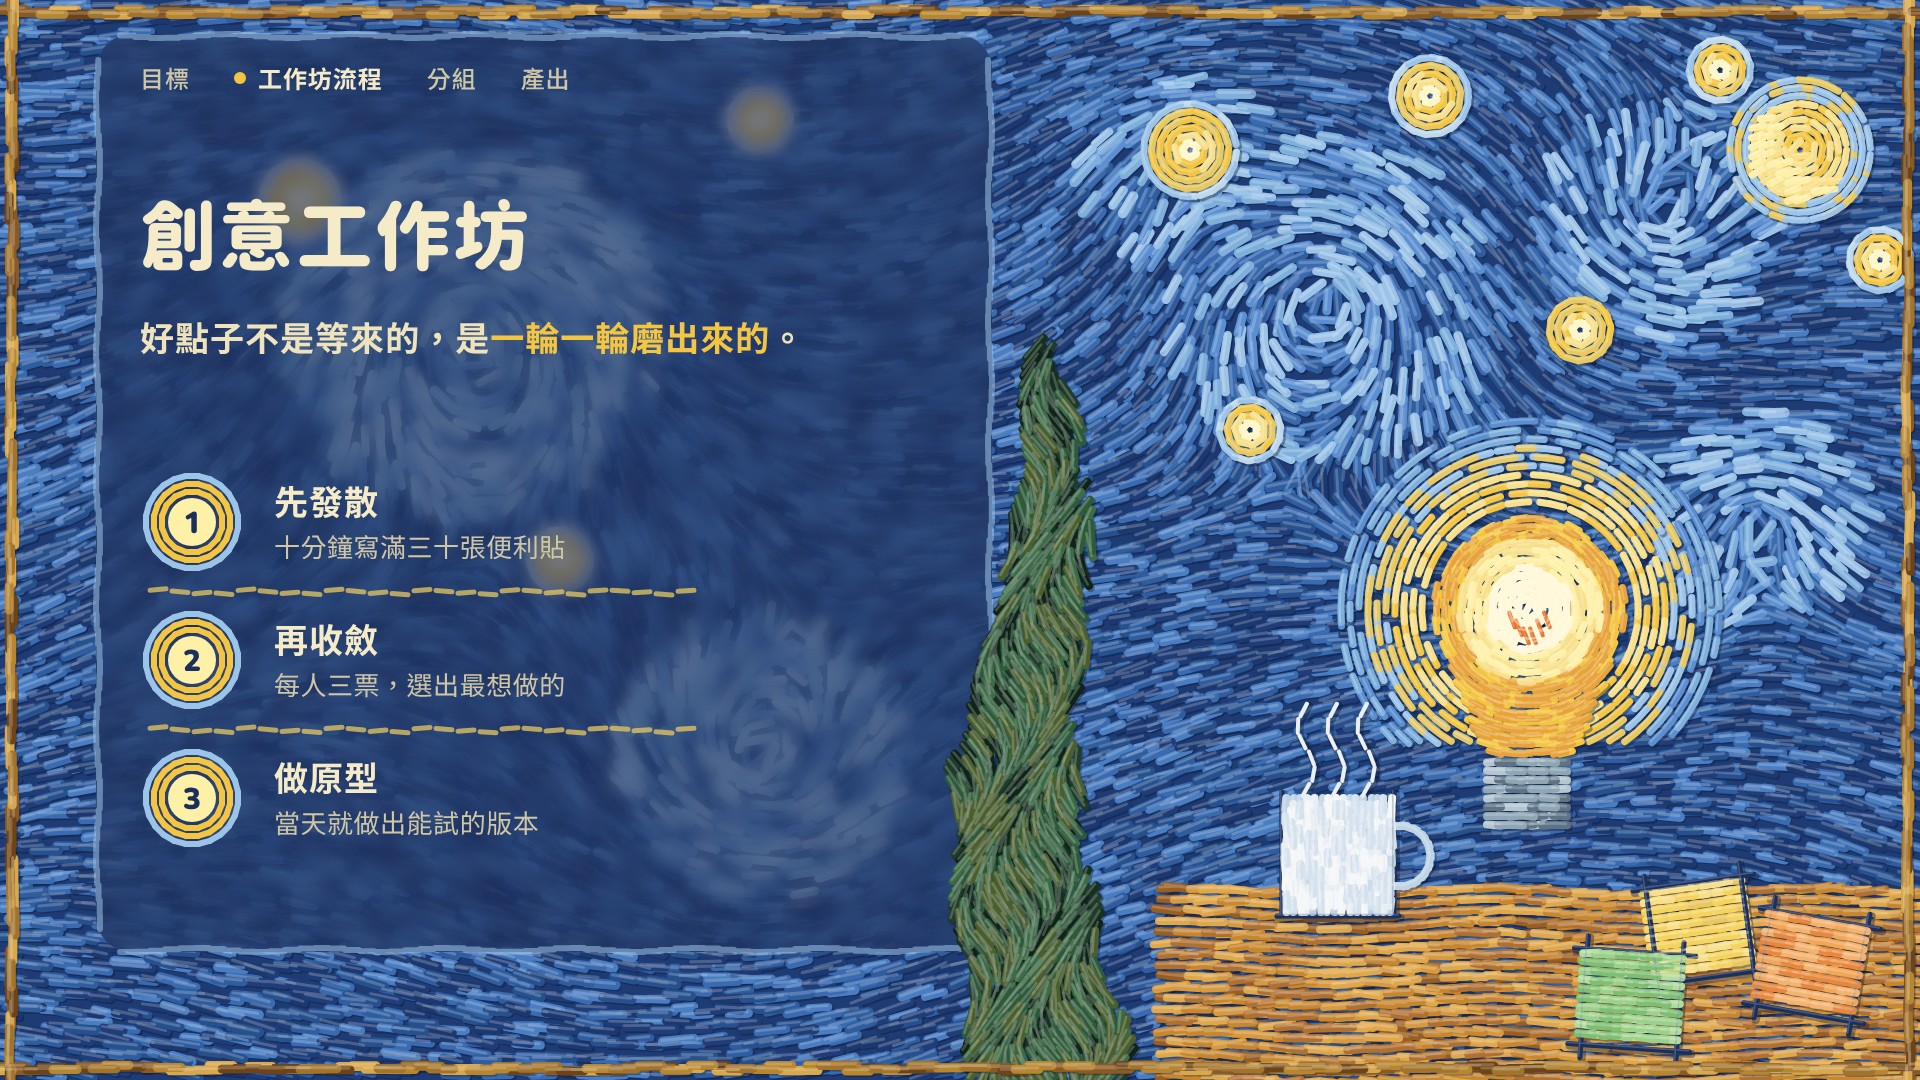
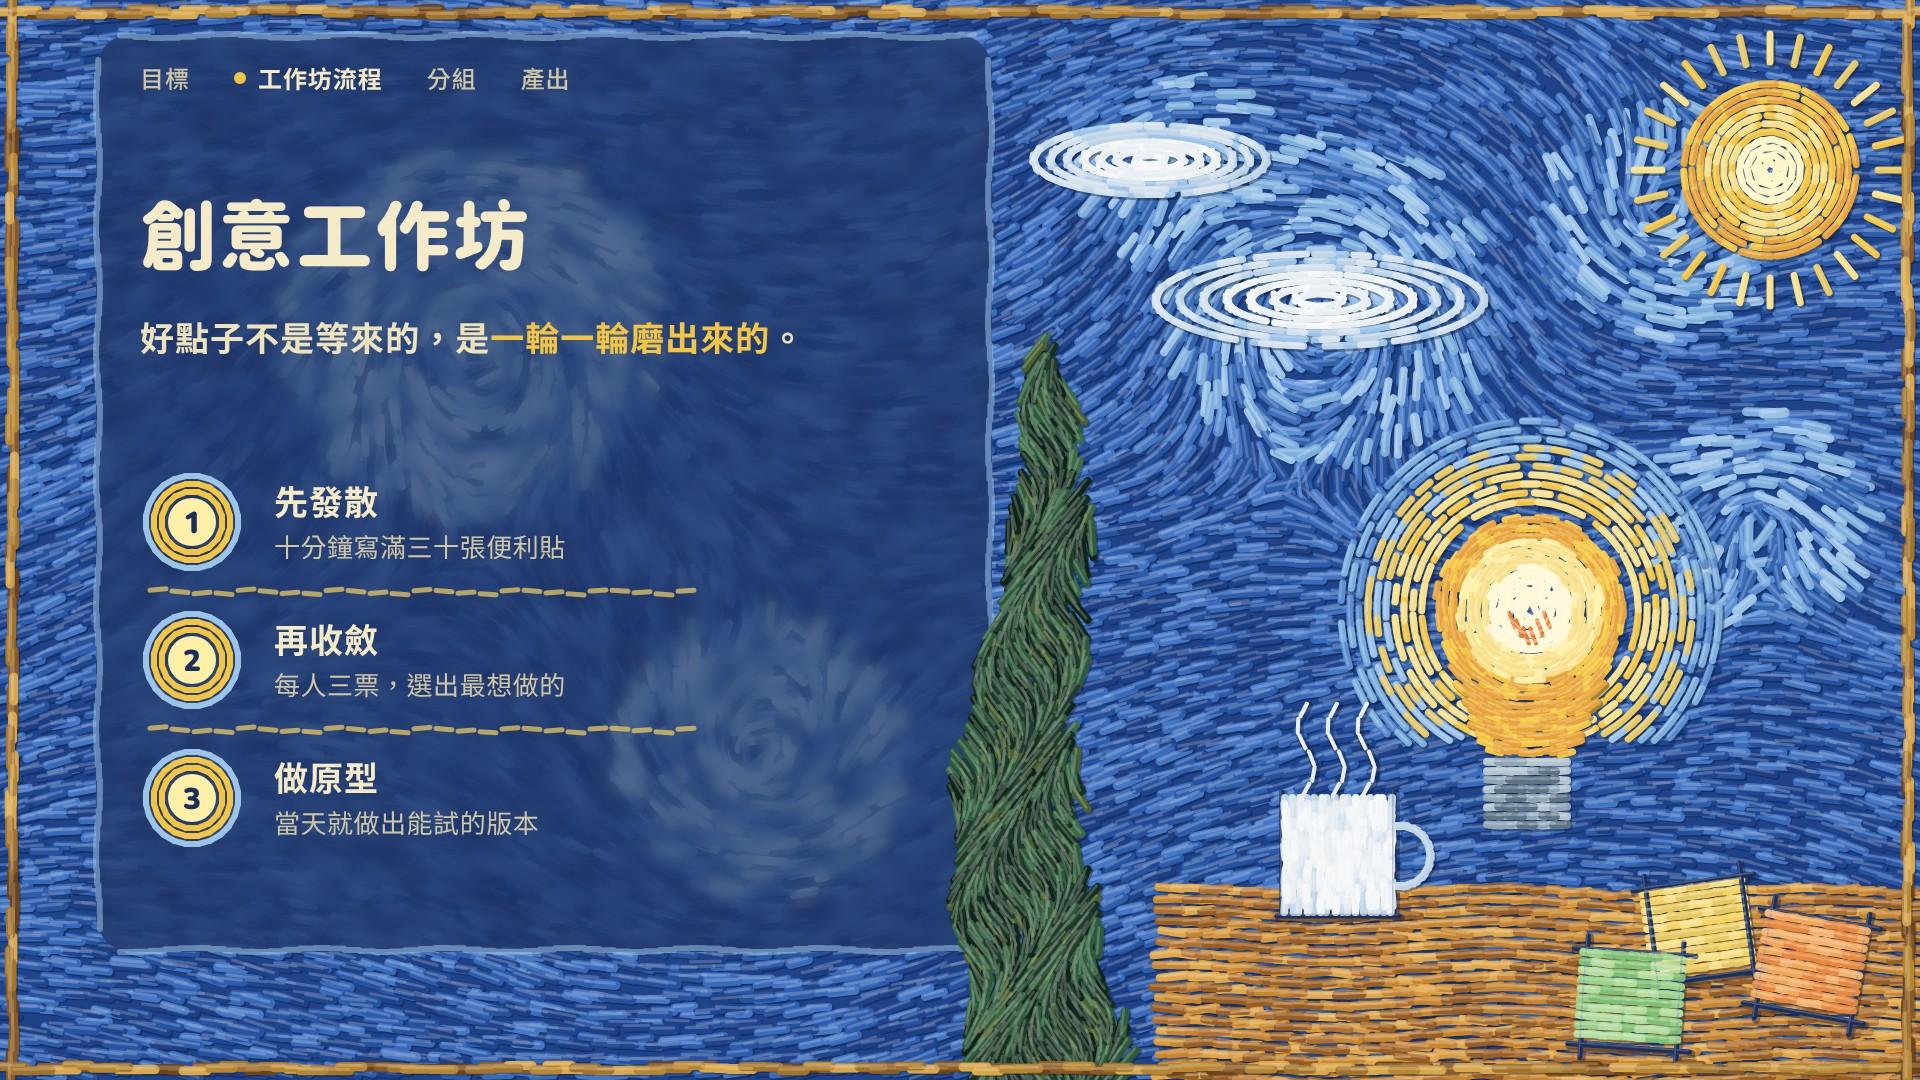
補明暗：梵谷筆觸兩種明暗都改成白天（依使用者建議）
- src/vangogh-B.html（深色）：拿掉九顆漩渦星星與月亮；天空改成梵谷常畫的白天深鈷藍，加一顆漩渦太陽與兩朵拉長的白雲（圓的會像月亮）
- src/vangogh-B-light.html（淺色，新）：晴天的淺藍漩渦天空、白雲、太陽，畫面下方是麥田；釉改淺色，字改深色，關鍵字改朱橘；桌子木色加深，不和麥田混在一起
- 工作坊在白天，太陽合乎「時間記號跟著內容走」
- render.cjs 檢查通過：深色 4.14，淺色 5.03

Claude-Session: https://claude.ai/code/session_01Cd6Gfpjt229CKA35KBVkkD

diff --git a/projects/presentation-skill/outputs/illustration-integration/src/vangogh-B-light.html b/projects/presentation-skill/outputs/illustration-integration/src/vangogh-B-light.html
@@ -1,0 +1,140 @@
+<!doctype html>
+<html lang="zh-Hant">
+<head>
+<meta charset="utf-8">
+<title>梵谷筆觸淺色版（B）｜創意工作坊：晴天的淺藍漩渦天空與麥田，字寫在淺色薄釉上</title>
+<link rel="stylesheet" href="https://fonts.googleapis.com/css2?family=Chiron+GoRound+TC:wght@500;700;900&family=Noto+Sans+TC:wght@400;500;700&display=block">
+<link rel="stylesheet" href="../../illustration-renderings/src/base.css">
+<style>
+  :root{--bg:#E9E6DC;--ink:#1E2638;--ink2:#2B3448;--sub:#4A5266;--accent:#A63F16}
+  .bn{font:900 30px/1 "Chiron GoRound TC";fill:#1A2F5E}
+</style>
+</head>
+<body>
+<div class="slide">
+  <svg class="scene" id="scene" width="1920" height="1080" viewBox="0 0 1920 1080" aria-hidden="true"></svg>
+  <nav aria-label="章節"><span>目標</span><b>工作坊流程</b><span>分組</span><span>產出</span></nav>
+  <div class="copy">
+    <h2>創意工作坊</h2>
+    <p class="key">好點子不是等來的，是<em>一輪一輪磨出來的</em>。</p>
+  </div>
+  <ul class="items">
+    <li><svg class="badge" viewBox="0 0 104 104" data-n="1" aria-hidden="true"></svg><div><strong>先發散</strong><span>十分鐘寫滿三十張便利貼</span></div></li>
+    <li><svg class="badge" viewBox="0 0 104 104" data-n="2" aria-hidden="true"></svg><div><strong>再收斂</strong><span>每人三票，選出最想做的</span></div></li>
+    <li><svg class="badge" viewBox="0 0 104 104" data-n="3" aria-hidden="true"></svg><div><strong>做原型</strong><span>當天就做出能試的版本</span></div></li>
+  </ul>
+</div>
+<script>
+let seed = 3;
+// the light version: a clear day, white clouds, a wheat field low across the canvas
+const CLOUD_PAL = [['#FFFFFF', '#F7F9FB'], ['#E4EEF6', '#D5E6F3', '#C6DDF1']];
+const rand = () => { seed = (seed + 0x6D2B79F5) | 0; let t = Math.imul(seed ^ seed >>> 15, 1 | seed); t ^= t + Math.imul(t ^ t >>> 7, 61 | t); return ((t ^ t >>> 14) >>> 0) / 4294967296; };
+const pick = a => a[Math.floor(rand() * a.length)];
+// strokes are batched per layer and colour; each batch gets a shadow and a highlight
+const layers = [];
+let L = -1;
+const layer = () => { layers.push({}); L++; };
+function st(x, y, a, len, col, w) {
+  const dx = Math.cos(a) * len / 2, dy = Math.sin(a) * len / 2, k = col + '|' + w;
+  (layers[L][k] ||= []).push(`M${(x - dx).toFixed(1)} ${(y - dy).toFixed(1)}L${(x + dx).toFixed(1)} ${(y + dy).toFixed(1)}`);
+}
+const lighten = (hex, t) => '#' + [1, 3, 5].map(i => Math.round(parseInt(hex.slice(i, i + 2), 16) * (1 - t) + 255 * t).toString(16).padStart(2, '0')).join('');
+
+// the sky: a flow field with a few vortices, calm over the text
+const vort = [[1330, 300, 1, 150], [1660, 220, -.85, 110], [1180, 170, .55, 90], [1760, 520, .6, 100], [470, 330, .9, 170], [760, 760, -.7, 130]];
+const smooth = (a, b, x) => { const t = Math.min(1, Math.max(0, (x - a) / (b - a))); return t * t * (3 - 2 * t); };
+function flow(x, y) {
+  const k = 1;
+  let vx = 1, vy = .18 * Math.sin(x * .004 + y * .007);
+  for (const [cx, cy, s, r] of vort) { const dx = x - cx, dy = y - cy, d = Math.sqrt(dx * dx + dy * dy) + 1, f = k * s * r * r * 2.4 / (d * d + r * r); vx += -dy / d * f; vy += dx / d * f; }
+  return Math.atan2(vy, vx);
+}
+layer();
+for (let y = 6; y < 1080; y += 15) for (let x = 6; x < 1920; x += 15) {
+  const px = x + (rand() - .5) * 10, py = y + (rand() - .5) * 10, calm = false;
+  let col;
+  if (calm) col = pick(['#1C3870', '#1F3D78', '#22417C', '#1A3366', '#24467F']);
+  else {
+    const near = vort.some(([cx, cy, , r]) => Math.hypot(px - cx, py - cy) < r * 1.1);
+    col = near ? pick(['#D5E6F3', '#E9F1F8', '#BFD8EE', '#F4F6F8', '#A9CBEA']) : pick(['#8FB8E0', '#A3C6E8', '#B6D3EE', '#7FAAD6', '#C6DDF1', '#94BCE3']);
+  }
+  // below the horizon the strokes stand up and turn to wheat
+  const wheat = py > 840 + 30 * Math.sin(px * .006);
+  if (wheat) { st(px, py, -Math.PI / 2 + .35 * Math.sin(px * .03 + py * .02) + (rand() - .5) * .3, 18 + rand() * 12, pick(['#E0B04A', '#D19A36', '#EBC66A', '#C68A2E', '#F0D27A']), 8 + Math.round(rand() * 2)); continue; }
+  st(px, py, flow(px, py) + (rand() - .5) * .25, 18 + rand() * 14, col, calm ? 7 : 8 + Math.round(rand() * 2));
+}
+// daytime, as the workshop is: no stars or moon; white clouds turn in two of the vortices and one sun burns where the moon was
+layer();
+const ring = (cx, cy, R, pal) => { for (let r = 6; r <= R; r += 8) { const n = Math.max(5, Math.round(2 * Math.PI * r / 13)); for (let k = 0; k < n; k++) { const t = k / n * Math.PI * 2 + rand() * .2; st(cx + Math.cos(t) * r, cy + Math.sin(t) * r, t + Math.PI / 2, 14, pal(r / R), 7); } } };
+const CLOUD = typeof CLOUD_PAL !== 'undefined' ? CLOUD_PAL : [['#E9EEF2', '#F4F6F8'], ['#BFD3E6', '#D5E2EE', '#9CC3E8']];
+// clouds are long, as in his daytime fields: strokes laid along flattened ellipses, not round like a moon
+const cloud = (cx, cy, Rx, Ry) => { for (let f = .12; f <= 1; f += .14) { const n = Math.max(6, Math.round(2 * Math.PI * Rx * f / 15)); for (let k = 0; k < n; k++) { const t = k / n * Math.PI * 2 + rand() * .15, x = cx + Math.cos(t) * Rx * f, y = cy + Math.sin(t) * Ry * f; st(x, y, Math.atan2(Math.cos(t) * Ry, -Math.sin(t) * Rx), 15, f < .6 ? pick(CLOUD[0]) : pick(CLOUD[1]), 7); } } };
+cloud(1320, 300, 170, 48); cloud(1150, 160, 120, 36);
+ring(1770, 170, 92, f => f < .35 ? '#FFF6C8' : f < .7 ? pick(['#F8E08A', '#F4C542']) : pick(['#F4C542', '#E8A33A']));
+for (let k = 0; k < 28; k++) { const t = k / 28 * Math.PI * 2; st(1770 + Math.cos(t) * 122, 170 + Math.sin(t) * 122, t, 28, pick(['#F4C542', '#E8C860', '#F8E08A']), 7); }
+// cypress, like a dark flame
+layer();
+for (let y = 330; y < 1090; y += 9) {
+  const w = 74 * Math.pow((y - 330) / 750, .6) + 6 * Math.sin(y * .05), c = 1036 + 18 * Math.sin((y - 330) * .01);
+  for (let x = c - w; x < c + w; x += 10) st(x + (rand() - .5) * 6, y, -Math.PI / 2 + .7 * Math.sin(y * .03 + x * .04), 20 + rand() * 10, pick(['#1F3B2A', '#2E5A3A', '#16301F', '#3D6B45', '#0F2418', '#4A5E2E']), 8);
+}
+// the table and today's tools
+layer();
+for (let y = 892; y < 1090; y += 11) for (let x = 1170; x < 1930; x += 15) st(x + (rand() - .5) * 8, y + 4 * Math.sin(x * .02), (rand() - .5) * .3, 22 + rand() * 10, pick(['#A0622A', '#8A5220', '#B8732F', '#7A4818', '#C07A36']), 8);
+// a lightbulb that glows
+for (let r = 108; r <= 196; r += 9) { const n = Math.round(2 * Math.PI * r / 14); for (let k = 0; k < n; k++) { const t = k / n * Math.PI * 2 + rand() * .2, x = 1530 + Math.cos(t) * r, y = 610 + Math.sin(t) * r; if (y < 740) st(x, y, t + Math.PI / 2, 15, r < 140 ? pick(['#F8E08A', '#F4C542']) : r < 170 ? pick(['#E8C860', '#9CC3E8']) : pick(['#7FB0DD', '#5C8FD1']), 7); } }
+layer();
+for (let y = 520; y < 760; y += 8) for (let x = 1430; x < 1630; x += 8) {
+  const dx = x - 1530, dy = y - 610, inBall = Math.hypot(dx, dy) < 94, inNeck = y > 660 && y < 756 && Math.abs(dx) < 40 + (756 - y) * .45;
+  if (inBall || inNeck) { const d = Math.hypot(dx, dy) / 94; st(x + (rand() - .5) * 4, y + (rand() - .5) * 4, Math.atan2(dy, dx) + Math.PI / 2, 13, d < .45 ? '#FFF8D8' : d < .75 ? pick(['#FFF0A8', '#F8E08A']) : pick(['#F4C542', '#E8A33A']), 7); }
+}
+for (let y = 762; y < 830; y += 9) for (let x = 1494; x < 1568; x += 11) st(x, y, (rand() - .5) * .2, 14, pick(['#8FA6B4', '#5E7486', '#B5C6D0']), 8);
+for (let k = 0; k < 6; k++) st(1512 + k * 7, 640 - Math.abs(k - 2.5) * 8, 1.2, 16, '#E8742E', 4);
+// sticky notes and a cup
+const note = (cx, cy, rot, cols) => { const a = rot * Math.PI / 180; for (let v = -44; v <= 44; v += 9) for (let u = -44; u <= 44; u += 12) st(cx + u * Math.cos(a) - v * Math.sin(a), cy + u * Math.sin(a) + v * Math.cos(a), a + (rand() - .5) * .2, 16, pick(cols), 8); for (const [u0, v0, u1, v1] of [[-48, -48, 48, -48], [48, -48, 48, 48], [48, 48, -48, 48], [-48, 48, -48, -48]]) for (let t = 0; t <= 1; t += .25) { const u = u0 + (u1 - u0) * t, v = v0 + (v1 - v0) * t; st(cx + u * Math.cos(a) - v * Math.sin(a), cy + u * Math.sin(a) + v * Math.cos(a), a + (u0 === u1 ? Math.PI / 2 : 0), 26, '#1A2F5E', 5); } };
+note(1700, 930, -8, ['#F4D35E', '#F8E08A', '#E8C860']); note(1812, 966, 10, ['#F2A65A', '#E8873E', '#F4B370']); note(1632, 1000, 4, ['#9BD18B', '#7FBF73', '#B4DDA0']);
+for (let y = 804; y < 912; y += 6) for (let x = 1286; x < 1392; x += 7) st(x + (rand() - .5) * 3, y, Math.PI / 2 + (rand() - .5) * .25, 12, pick(['#E9EEF2', '#BFD3E6', '#D5E2EE', '#F4F6F8']), 8);
+for (let y = 800; y <= 914; y += 12) { st(1282, y, Math.PI / 2, 16, '#1A2F5E', 5); st(1394, y, Math.PI / 2, 16, '#1A2F5E', 5); }
+for (let x = 1286; x <= 1390; x += 13) st(x, 916, 0, 18, '#1A2F5E', 5);
+for (let k = 0; k < 10; k++) { const t = -Math.PI / 2 + k / 9 * Math.PI; st(1400 + Math.cos(t) * 30, 856 + Math.sin(t) * 30, t + Math.PI / 2, 14, '#BFD3E6', 8); }
+for (let k = 0; k < 3; k++) for (let j = 0; j < 6; j++) st(1306 + k * 30 + 8 * Math.sin(j * 1.2), 790 - j * 16, Math.PI / 2 + .5 * Math.cos(j * 1.2), 14, '#E9EEF2', 4);
+// signature frame: a border of thick strokes
+layer();
+const fr = ['#8A5A22', '#B8862F', '#D9A84A', '#6E4416', '#A4732A'];
+for (let x = 0; x < 1930; x += 13) { st(x, 9 + rand() * 6, 0, 24, pick(fr), 9); st(x, 1071 - rand() * 6, 0, 24, pick(fr), 9); }
+for (let y = 0; y < 1090; y += 13) { st(9 + rand() * 6, y, Math.PI / 2, 24, pick(fr), 9); st(1911 - rand() * 6, y, Math.PI / 2, 24, pick(fr), 9); }
+
+const draw = Ly => {
+  let o = '';
+  const keys = Object.keys(Ly);
+  o += `<path d="${keys.map(k => Ly[k].join('')).join('')}" stroke="#2A3A5A" stroke-opacity=".2" stroke-width="8" stroke-linecap="round" fill="none" transform="translate(1.8 2)"/>`;
+  keys.forEach(k => { const [col, w] = k.split('|'); o += `<path d="${Ly[k].join('')}" stroke="${col}" stroke-width="${w}" stroke-linecap="round" fill="none"/>`; });
+  keys.forEach(k => { const [col, w] = k.split('|'); o += `<path d="${Ly[k].join('')}" stroke="${lighten(col, .45)}" stroke-opacity=".45" stroke-width="${(w * .32).toFixed(1)}" stroke-linecap="round" fill="none" transform="translate(-1.2 -1.4)"/>`; });
+  return o;
+};
+let out = '<defs><filter id="frost" filterUnits="userSpaceOnUse" x="0" y="0" width="1920" height="1080"><feGaussianBlur stdDeviation="7"/></filter>'
+  + '<clipPath id="glaze"><rect x="96" y="34" width="896" height="918" rx="36"/></clipPath></defs>';
+out += '<rect width="1920" height="1080" fill="#A9CBEA"/><g id="paint">' + draw(layers[0]) + draw(layers[1]) + '</g>';
+// the glaze: the same sky, softened and lightened, with painted edges
+out += '<g clip-path="url(#glaze)"><use href="#paint" filter="url(#frost)"/><rect x="96" y="34" width="896" height="918" fill="#F4F0E6" opacity=".76"/></g>';
+let edge = '';
+for (let x = 120; x < 972; x += 15) edge += `M${x} ${36 + Math.sin(x * .05) * 2}l14 0 M${x} ${950 + Math.cos(x * .05) * 2}l14 0 `;
+for (let y = 60; y < 930; y += 15) edge += `M${98 + Math.sin(y * .05) * 2} ${y}l0 14 M${990 + Math.cos(y * .05) * 2} ${y}l0 14 `;
+out += `<path d="${edge}" stroke="#5C8FD1" stroke-opacity=".6" stroke-width="6" stroke-linecap="round" fill="none"/>`;
+// painted strokes between the items: the dividers are brushwork too
+let div = '';
+[592, 730].forEach(y => { for (let x = 150; x < 700; x += 22) div += `M${x} ${y + Math.sin(x * .07) * 2}l16 ${(Math.sin(x) * 2).toFixed(1)} `; });
+out += `<path d="${div}" stroke="#3A6BB0" stroke-opacity=".6" stroke-width="5" stroke-linecap="round" fill="none"/>`;
+layers.slice(2).forEach(Ly => out += draw(Ly));
+document.getElementById('scene').innerHTML = out;
+
+// list badges: a small sun, painted
+document.querySelectorAll('svg.badge').forEach(el => {
+  let s = '';
+  for (let r = 30; r <= 48; r += 8) { const n = Math.round(2 * Math.PI * r / 12); for (let k = 0; k < n; k++) { const t = k / n * Math.PI * 2, x = 52 + Math.cos(t) * r, y = 52 + Math.sin(t) * r, a = t + Math.PI / 2; s += `<path d="M${(x - Math.cos(a) * 6).toFixed(1)} ${(y - Math.sin(a) * 6).toFixed(1)}L${(x + Math.cos(a) * 6).toFixed(1)} ${(y + Math.sin(a) * 6).toFixed(1)}" stroke="${r < 40 ? '#F4C542' : '#9CC3E8'}" stroke-width="6" stroke-linecap="round"/>`; } }
+  s += `<circle cx="52" cy="52" r="24" fill="#FFF0A8"/><text class="bn" x="52" y="63" text-anchor="middle">${el.dataset.n}</text>`;
+  el.innerHTML = s;
+});
+</script>
+</body>
+</html>

diff --git a/projects/presentation-skill/outputs/illustration-integration/src/vangogh-B.html b/projects/presentation-skill/outputs/illustration-integration/src/vangogh-B.html
@@ -2,11 +2,11 @@
 <html lang="zh-Hant">
 <head>
 <meta charset="utf-8">
-<title>梵谷筆觸融合版（B）｜創意工作坊：字寫在畫上的一層薄釉</title>
+<title>梵谷筆觸深色版（B）｜創意工作坊：深鈷藍的白天天空，字寫在一層薄釉上</title>
 <link rel="stylesheet" href="https://fonts.googleapis.com/css2?family=Chiron+GoRound+TC:wght@500;700;900&family=Noto+Sans+TC:wght@400;500;700&display=block">
 <link rel="stylesheet" href="../../illustration-renderings/src/base.css">
 <style>
-  :root{--bg:#1F3B73;--ink:#F6EBC8;--ink2:#EFE3BD;--sub:#CFC6A6;--accent:#F4C542}
+  :root{--bg:#1F4288;--ink:#F6EBC8;--ink2:#EFE3BD;--sub:#CFC6A6;--accent:#F4C542}
   .bn{font:900 30px/1 "Chiron GoRound TC";fill:#1A2F5E}
 </style>
 </head>
@@ -47,7 +47,6 @@ function flow(x, y) {
   for (const [cx, cy, s, r] of vort) { const dx = x - cx, dy = y - cy, d = Math.sqrt(dx * dx + dy * dy) + 1, f = k * s * r * r * 2.4 / (d * d + r * r); vx += -dy / d * f; vy += dx / d * f; }
   return Math.atan2(vy, vx);
 }
-const stars = [[1190, 150, 46], [1430, 96, 40], [1580, 330, 36], [1250, 430, 30], [1880, 260, 34], [1720, 70, 30], [300, 200, 40], [760, 120, 34], [560, 560, 30]];
 layer();
 for (let y = 6; y < 1080; y += 15) for (let x = 6; x < 1920; x += 15) {
   const px = x + (rand() - .5) * 10, py = y + (rand() - .5) * 10, calm = false;
@@ -55,16 +54,19 @@ for (let y = 6; y < 1080; y += 15) for (let x = 6; x < 1920; x += 15) {
   if (calm) col = pick(['#1C3870', '#1F3D78', '#22417C', '#1A3366', '#24467F']);
   else {
     const near = vort.some(([cx, cy, , r]) => Math.hypot(px - cx, py - cy) < r * 1.1);
-    col = near ? pick(['#3A6BB0', '#5C8FD1', '#9CC3E8', '#2F5DA0', '#7FB0DD']) : pick(['#1F3D78', '#27508F', '#2F5DA0', '#1C3870', '#3A6BB0', '#4A7DC2']);
+    col = near ? pick(['#3E70BC', '#5C8FD6', '#9CC3E8', '#3264B0', '#7FB0DD']) : pick(['#1F4590', '#2752A0', '#2E5DAE', '#1D3F86', '#3A6BBA', '#4677C4']);
   }
   st(px, py, flow(px, py) + (rand() - .5) * .25, 18 + rand() * 14, col, calm ? 7 : 8 + Math.round(rand() * 2));
 }
-// stars and the moon: rings of strokes
+// daytime, as the workshop is: no stars or moon; white clouds turn in two of the vortices and one sun burns where the moon was
 layer();
 const ring = (cx, cy, R, pal) => { for (let r = 6; r <= R; r += 8) { const n = Math.max(5, Math.round(2 * Math.PI * r / 13)); for (let k = 0; k < n; k++) { const t = k / n * Math.PI * 2 + rand() * .2; st(cx + Math.cos(t) * r, cy + Math.sin(t) * r, t + Math.PI / 2, 14, pal(r / R), 7); } } };
-stars.forEach(([x, y, R]) => ring(x, y, R, f => f < .3 ? '#FFF6C8' : f < .6 ? pick(['#F8E08A', '#F4C542']) : f < .85 ? pick(['#F4C542', '#E8C860']) : pick(['#9CC3E8', '#BFD8EC'])));
-ring(1800, 150, 70, f => f < .75 ? pick(['#F4C542', '#F8E08A']) : pick(['#E8C860', '#9CC3E8']));
-for (let y = 100; y < 202; y += 9) for (let x = 1748; x < 1856; x += 9) { if (Math.hypot(x - 1800, y - 150) < 50 && Math.hypot(x - 1822, y - 136) > 44) st(x, y, flow(x, y), 12, pick(['#FFF0A8', '#F8E08A']), 7); }
+const CLOUD = typeof CLOUD_PAL !== 'undefined' ? CLOUD_PAL : [['#E9EEF2', '#F4F6F8'], ['#BFD3E6', '#D5E2EE', '#9CC3E8']];
+// clouds are long, as in his daytime fields: strokes laid along flattened ellipses, not round like a moon
+const cloud = (cx, cy, Rx, Ry) => { for (let f = .12; f <= 1; f += .14) { const n = Math.max(6, Math.round(2 * Math.PI * Rx * f / 15)); for (let k = 0; k < n; k++) { const t = k / n * Math.PI * 2 + rand() * .15, x = cx + Math.cos(t) * Rx * f, y = cy + Math.sin(t) * Ry * f; st(x, y, Math.atan2(Math.cos(t) * Ry, -Math.sin(t) * Rx), 15, f < .6 ? pick(CLOUD[0]) : pick(CLOUD[1]), 7); } } };
+cloud(1320, 300, 170, 48); cloud(1150, 160, 120, 36);
+ring(1770, 170, 92, f => f < .35 ? '#FFF6C8' : f < .7 ? pick(['#F8E08A', '#F4C542']) : pick(['#F4C542', '#E8A33A']));
+for (let k = 0; k < 28; k++) { const t = k / 28 * Math.PI * 2; st(1770 + Math.cos(t) * 122, 170 + Math.sin(t) * 122, t, 28, pick(['#F4C542', '#E8C860', '#F8E08A']), 7); }
 // cypress, like a dark flame
 layer();
 for (let y = 330; y < 1090; y += 9) {
@@ -107,7 +109,7 @@ const draw = Ly => {
 };
 let out = '<defs><filter id="frost" filterUnits="userSpaceOnUse" x="0" y="0" width="1920" height="1080"><feGaussianBlur stdDeviation="7"/></filter>'
   + '<clipPath id="glaze"><rect x="96" y="34" width="896" height="918" rx="36"/></clipPath></defs>';
-out += '<rect width="1920" height="1080" fill="#1F3B73"/><g id="paint">' + draw(layers[0]) + draw(layers[1]) + '</g>';
+out += '<rect width="1920" height="1080" fill="#1F4288"/><g id="paint">' + draw(layers[0]) + draw(layers[1]) + '</g>';
 // the glaze: the same sky, softened and darkened, with painted edges
 out += '<g clip-path="url(#glaze)"><use href="#paint" filter="url(#frost)"/><rect x="96" y="34" width="896" height="918" fill="#13254F" opacity=".58"/></g>';
 let edge = '';
@@ -121,7 +123,7 @@ out += `<path d="${div}" stroke="#E8C860" stroke-opacity=".75" stroke-width="5" 
 layers.slice(2).forEach(Ly => out += draw(Ly));
 document.getElementById('scene').innerHTML = out;
 
-// list badges: a small star, painted
+// list badges: a small sun, painted
 document.querySelectorAll('svg.badge').forEach(el => {
   let s = '';
   for (let r = 30; r <= 48; r += 8) { const n = Math.round(2 * Math.PI * r / 12); for (let k = 0; k < n; k++) { const t = k / n * Math.PI * 2, x = 52 + Math.cos(t) * r, y = 52 + Math.sin(t) * r, a = t + Math.PI / 2; s += `<path d="M${(x - Math.cos(a) * 6).toFixed(1)} ${(y - Math.sin(a) * 6).toFixed(1)}L${(x + Math.cos(a) * 6).toFixed(1)} ${(y + Math.sin(a) * 6).toFixed(1)}" stroke="${r < 40 ? '#F4C542' : '#9CC3E8'}" stroke-width="6" stroke-linecap="round"/>`; } }
